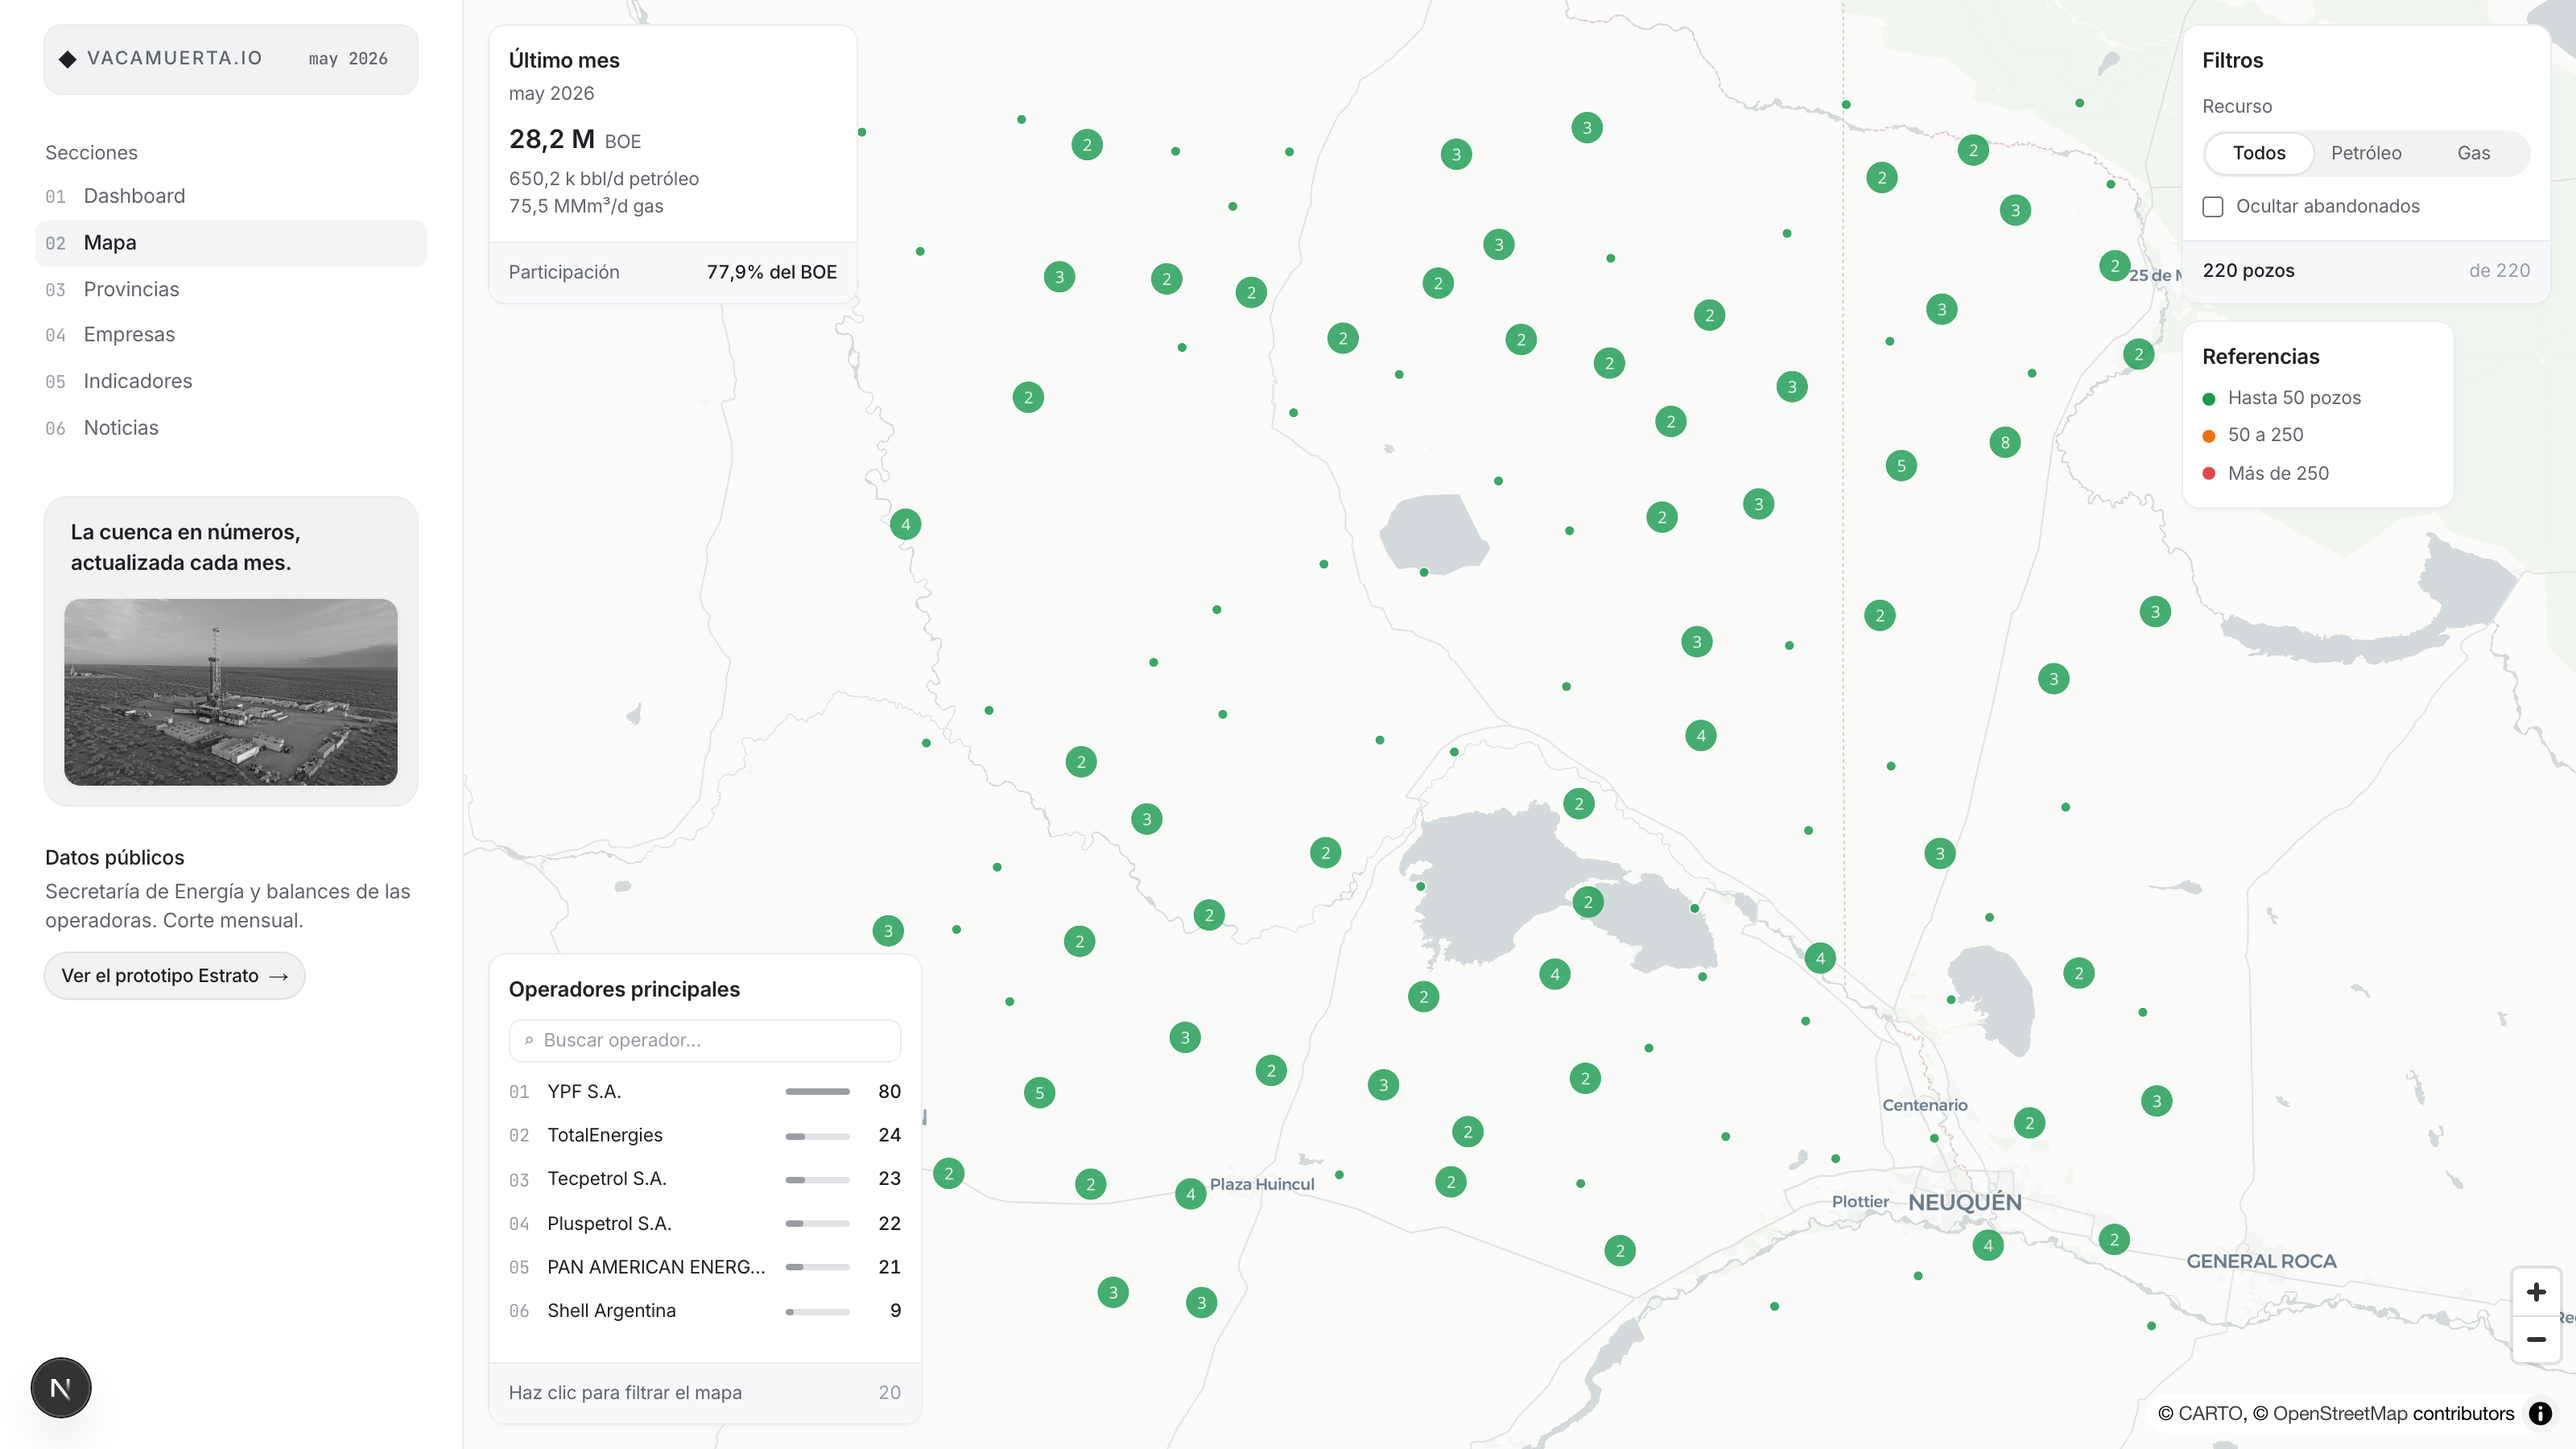
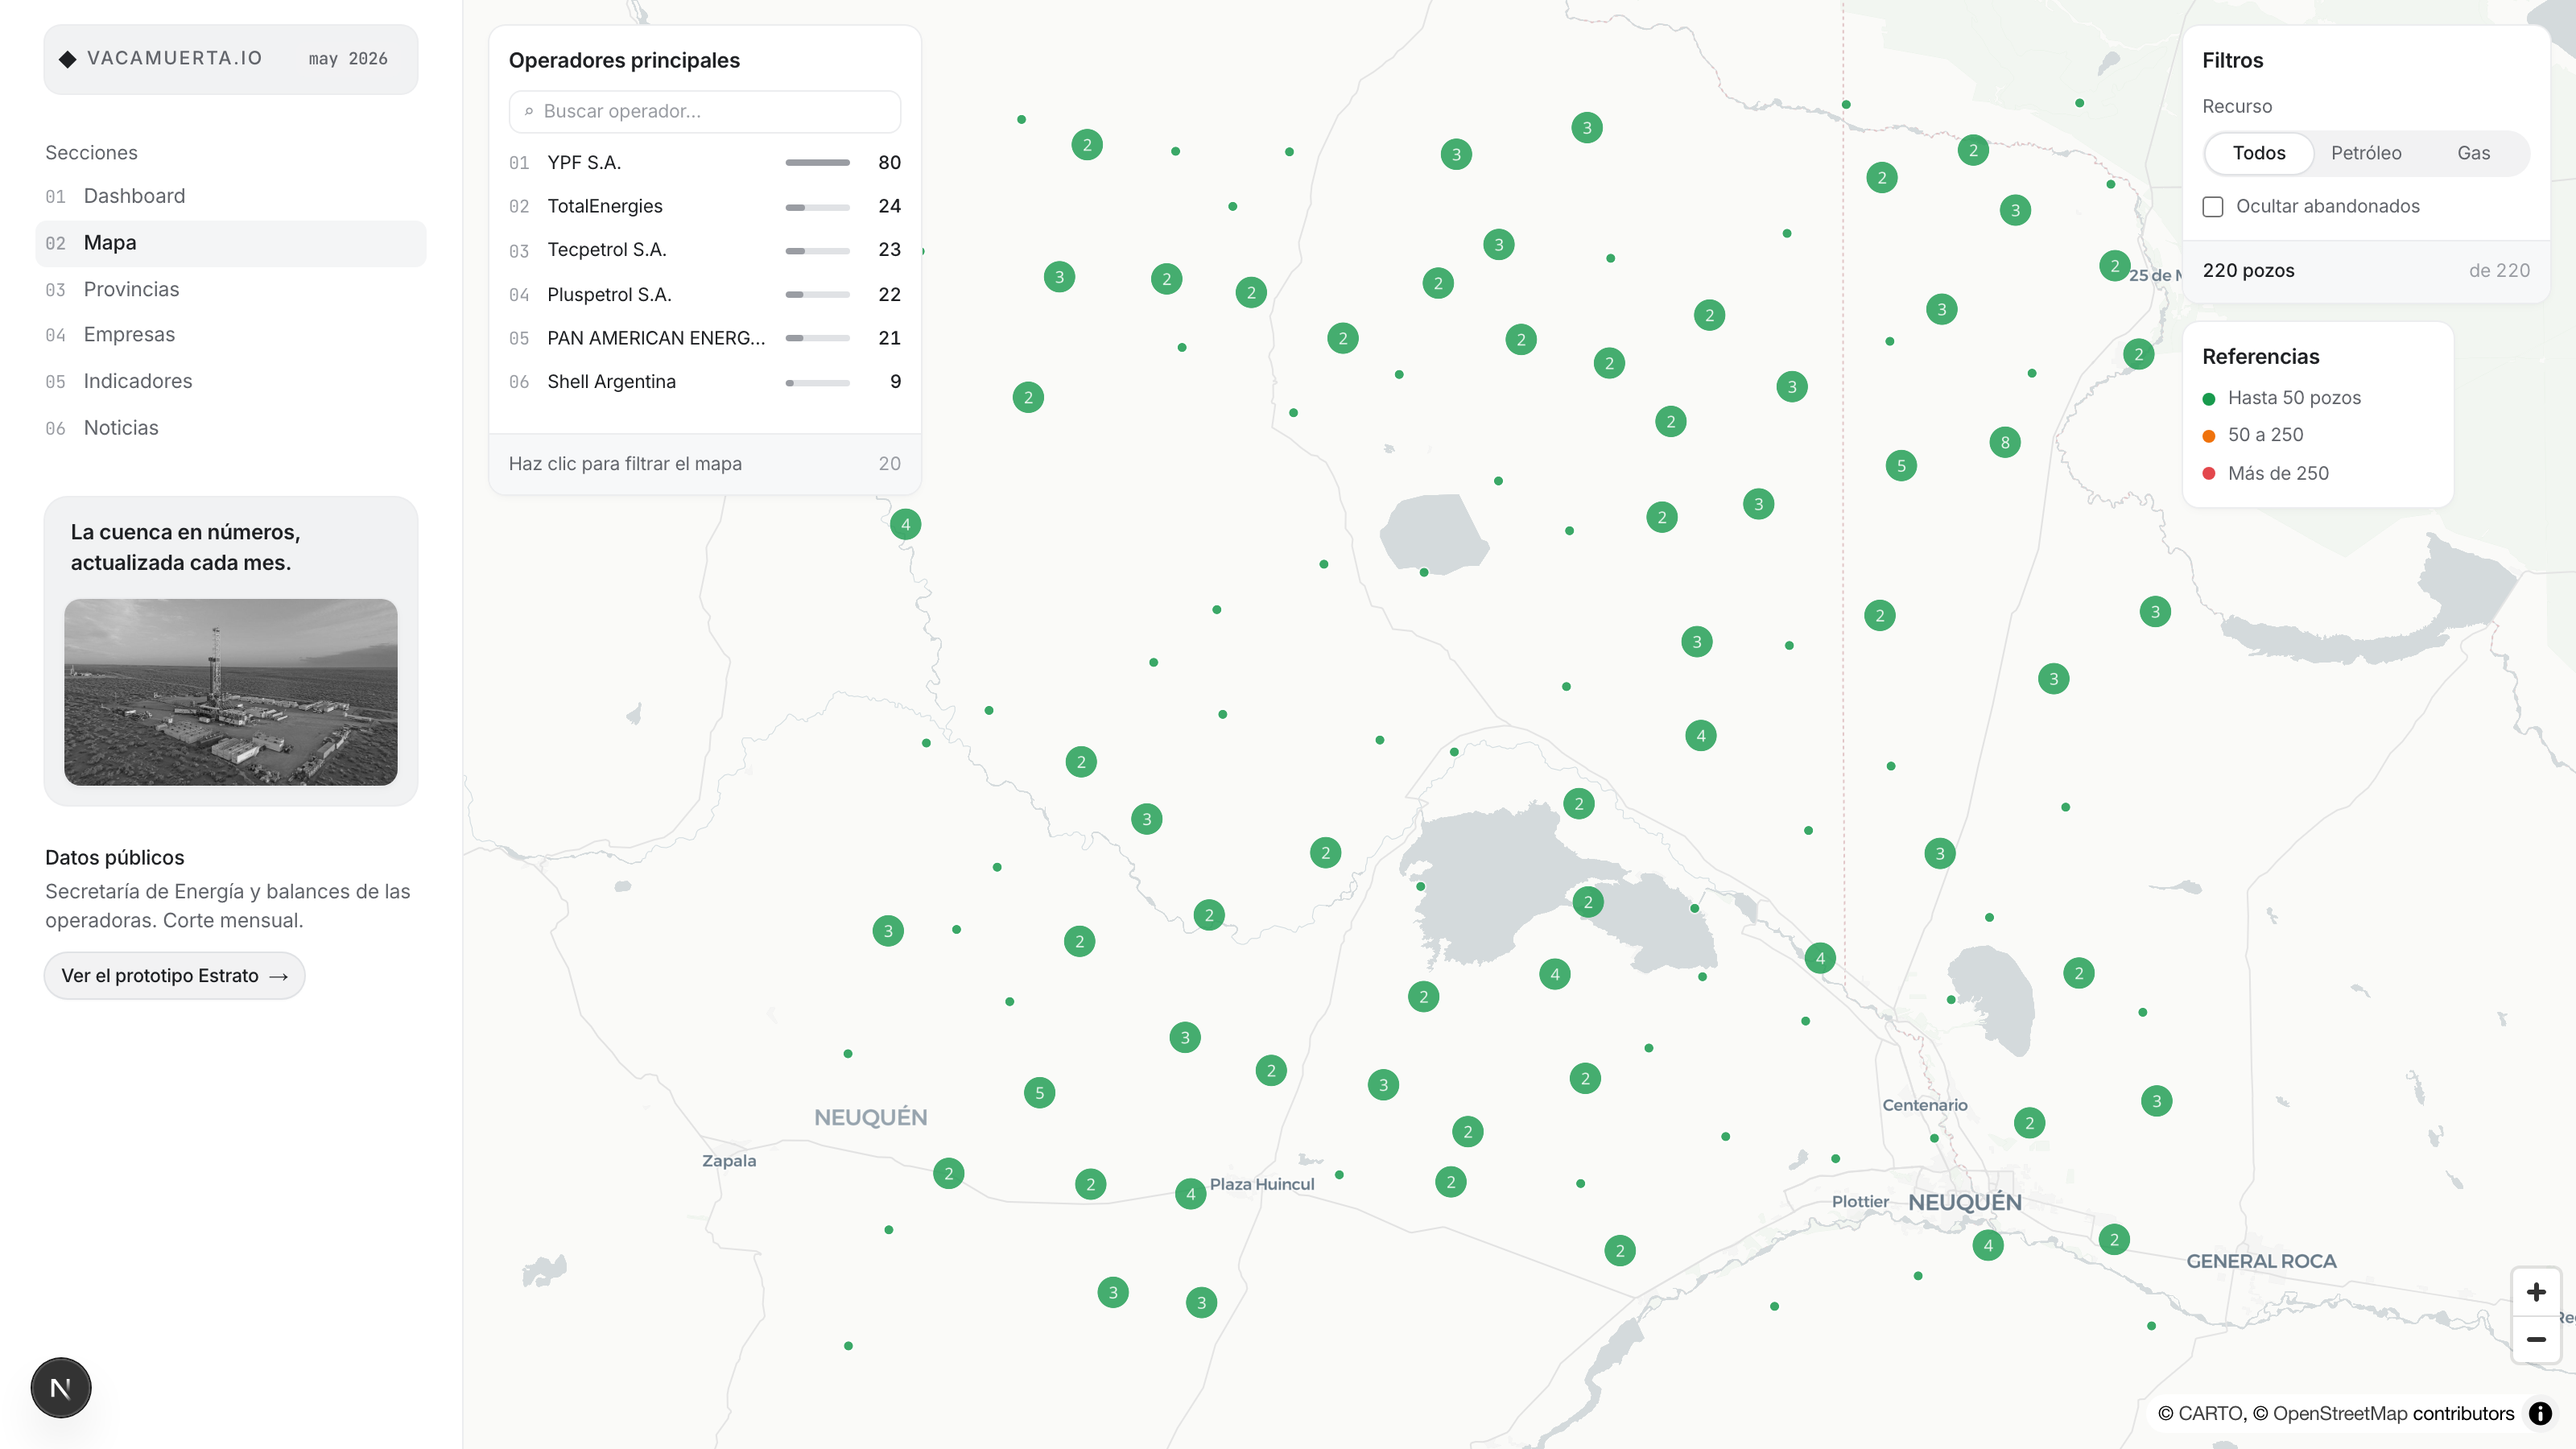
feat(ui-prototype): sale el panel de resumen; operadoras pasa al ángulo superior izquierdo
El panel "Último mes" se va y su lugar lo toma el de operadoras, que es el
único con el que se interactúa. Se borra el componente y sus dependencias
—HEADLINE y tres helpers de formato— en vez de dejarlo sin usar.

Quedan tres paneles: operadoras arriba a la izquierda, filtros y referencias
arriba a la derecha. El ángulo inferior derecho sigue libre para el zoom y la
atribución.

Un detalle que salió al verificar: sin su contenedor, el panel pasó a ser hijo
directo del flex y heredó el stretch, estirándose a los 1084px de alto del
mapa con un bloque blanco vacío debajo del pie. Con items-start mide sus
291px reales.

Verificado a 1600 y 1280: los tres paneles en su lugar, sin solaparse entre
ellos, ni con el zoom, ni con la atribución, y ninguno se sale de la ventana.

diff --git a/apps/ui-prototype/src/app/v2/mapa/Paneles.tsx b/apps/ui-prototype/src/app/v2/mapa/Paneles.tsx
@@ -1,8 +1,7 @@
 'use client'
 
 import { useMemo, useState, type ReactNode } from 'react'
-import { HEADLINE } from '@/fixtures/production'
-import { formatCompact, formatDecimal, formatInteger, formatPercent } from '@/lib/format'
+import { formatInteger } from '@/lib/format'
 
 /* Paneles flotantes del mapa — con la receta de card MEDIDA de la referencia,
    no con la que yo había inventado.
@@ -71,47 +70,6 @@ function Pie({ children }: { children: ReactNode }) {
 /** Título del panel: primera línea del cuerpo, no una barra aparte. */
 function Titulo({ children }: { children: ReactNode }) {
   return <p className="s-titulo m-0">{children}</p>
-}
-
-const MESES = ['ene', 'feb', 'mar', 'abr', 'may', 'jun', 'jul', 'ago', 'sep', 'oct', 'nov', 'dic']
-const mes = (p: string) => `${MESES[Number(p.split('-')[1]) - 1]} ${p.split('-')[0]}`
-
-/** Resumen — el marco de referencia del país. */
-export function PanelResumen() {
-  return (
-    <Panel className="w-[228px]">
-      <Cuerpo>
-        <Titulo>Último mes</Titulo>
-        <p className="s-micro m-0 mt-0.5" style={{ color: 'var(--ink-2)' }}>
-          {mes(HEADLINE.period)}
-        </p>
-        <p className="m-0 mt-2.5 flex items-baseline gap-1.5">
-          <span className="s-cifra-sm">{formatCompact(HEADLINE.boeMonth)}</span>
-          <abbr
-            title="Barriles equivalentes de petróleo"
-            className="s-micro cursor-help no-underline"
-            style={{ color: 'var(--ink-2)' }}
-          >
-            BOE
-          </abbr>
-        </p>
-        <p className="s-micro s-num m-0 mt-1.5" style={{ color: 'var(--ink-2)' }}>
-          {formatCompact(HEADLINE.oil)} bbl/d petróleo
-        </p>
-        <p className="s-micro s-num m-0" style={{ color: 'var(--ink-2)' }}>
-          {formatDecimal(HEADLINE.gas, 1)} MMm³/d gas
-        </p>
-      </Cuerpo>
-      <Pie>
-        <span className="s-micro" style={{ color: 'var(--ink-2)' }}>
-          Participación
-        </span>
-        <span className="s-micro s-num" style={{ fontWeight: 500 }}>
-          {formatPercent(HEADLINE.vmShare)} del BOE
-        </span>
-      </Pie>
-    </Panel>
-  )
 }
 
 /** Filtros — recurso y estado; el conteo y el reinicio bajan al pie. */

diff --git a/apps/ui-prototype/src/app/v2/mapa/MapaV2.tsx b/apps/ui-prototype/src/app/v2/mapa/MapaV2.tsx
@@ -4,7 +4,7 @@ import { useEffect, useMemo, useRef, useState } from 'react'
 import type { GeoJSONSource, Map as MLMap } from 'maplibre-gl'
 import { MapShell } from '@/ui/map-shell'
 import { WELLS } from '@/fixtures/wells'
-import { PanelResumen, PanelFiltros, PanelOperadores, PanelReferencias, type Recurso } from './Paneles'
+import { PanelFiltros, PanelOperadores, PanelReferencias, type Recurso } from './Paneles'
 
 /* El mapa se reusa tal cual —MapShell absorbe el boilerplate de MapLibre— y
    lo único que cambia es la paleta de los clusters, que pasa a los colores de
@@ -153,15 +153,23 @@ export function MapaV2() {
           El ángulo inferior derecho queda LIBRE a propósito: ahí viven los
           controles de zoom y la atribución de MapLibre. Con las referencias
           ahí abajo se solapaban con el zoom en todos los tamaños. */}
-      <div className="pointer-events-none absolute inset-0 z-10 flex justify-between gap-3 p-4">
-        <div className="flex flex-col justify-between">
-          <PanelResumen />
-          <PanelOperadores
-            operadoras={operadoras}
-            seleccionada={operadora}
-            onSeleccionar={setOperadora}
-          />
-        </div>
+      {/* Los paneles no capturan el puntero salvo ellos mismos, así el mapa
+          se sigue pudiendo arrastrar por los huecos entre ellos.
+
+          Dos columnas, las dos arriba: a la izquierda las operadoras con su
+          buscador, a la derecha los filtros y las referencias. El ángulo
+          inferior derecho queda LIBRE a propósito: ahí viven los controles de
+          zoom y la atribución de MapLibre.
+
+          `items-start` es necesario: sin él los paneles heredan el stretch
+          del flex y se estiran a todo el alto del mapa, dejando un bloque
+          blanco vacío debajo del pie. */}
+      <div className="pointer-events-none absolute inset-0 z-10 flex items-start justify-between gap-3 p-4">
+        <PanelOperadores
+          operadoras={operadoras}
+          seleccionada={operadora}
+          onSeleccionar={setOperadora}
+        />
         <div className="flex flex-col gap-3">
           <PanelFiltros
             recurso={recurso}
